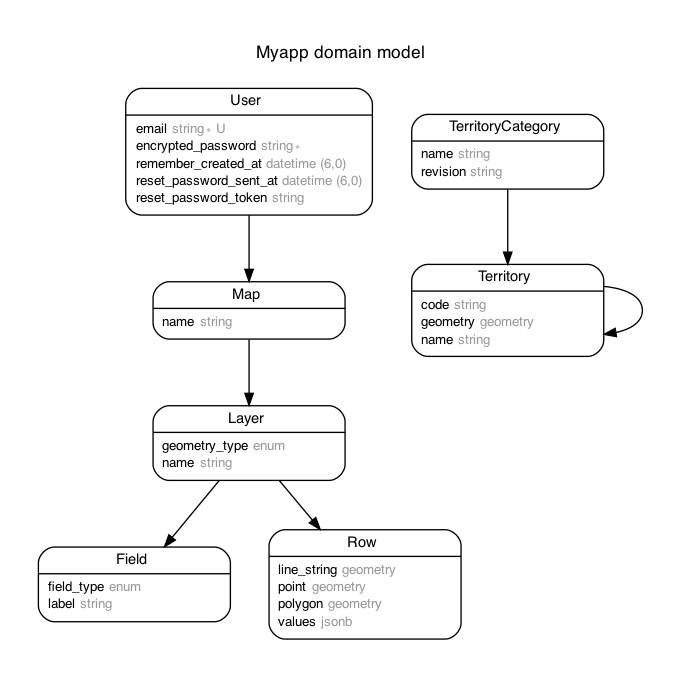
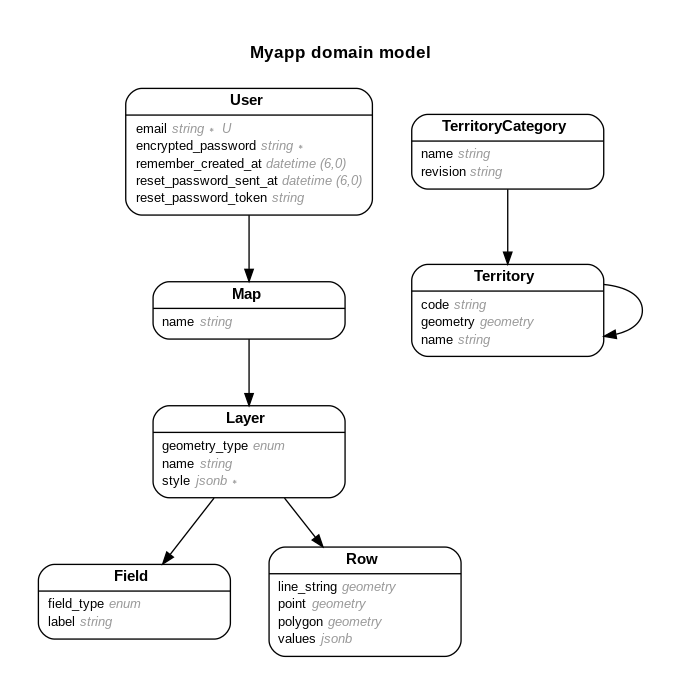
layer style: migration to add a style column

diff --git a/app/models/layer.rb b/app/models/layer.rb
@@ -5,6 +5,7 @@
 #  id            :uuid             not null, primary key
 #  geometry_type :enum             geometry, 0
 #  name          :string
+#  style         :jsonb            not null
 #  created_at    :datetime         not null
 #  updated_at    :datetime         not null
 #  map_id        :uuid             not null

diff --git a/test/models/layer_test.rb b/test/models/layer_test.rb
@@ -5,6 +5,7 @@
 #  id            :uuid             not null, primary key
 #  geometry_type :enum             geometry, 0
 #  name          :string
+#  style         :jsonb            not null
 #  created_at    :datetime         not null
 #  updated_at    :datetime         not null
 #  map_id        :uuid             not null

diff --git a/db/schema.rb b/db/schema.rb
@@ -47,6 +47,7 @@ ActiveRecord::Schema[7.0].define(version: 2022_07_04_132417) do
     t.datetime "created_at", null: false
     t.datetime "updated_at", null: false
     t.uuid "map_id", null: false
+    t.jsonb "style", default: {}, null: false
     t.index ["map_id"], name: "index_layers_on_map_id"
   end
 

diff --git a/db/migrate/20220630155901_add_color_to_layer.rb b/db/migrate/20220630155901_add_color_to_layer.rb
@@ -1,0 +1,5 @@
+class AddColorToLayer < ActiveRecord::Migration[7.0]
+  def change
+    add_column :layers, :style, :jsonb, null: false, default: {}
+  end
+end
